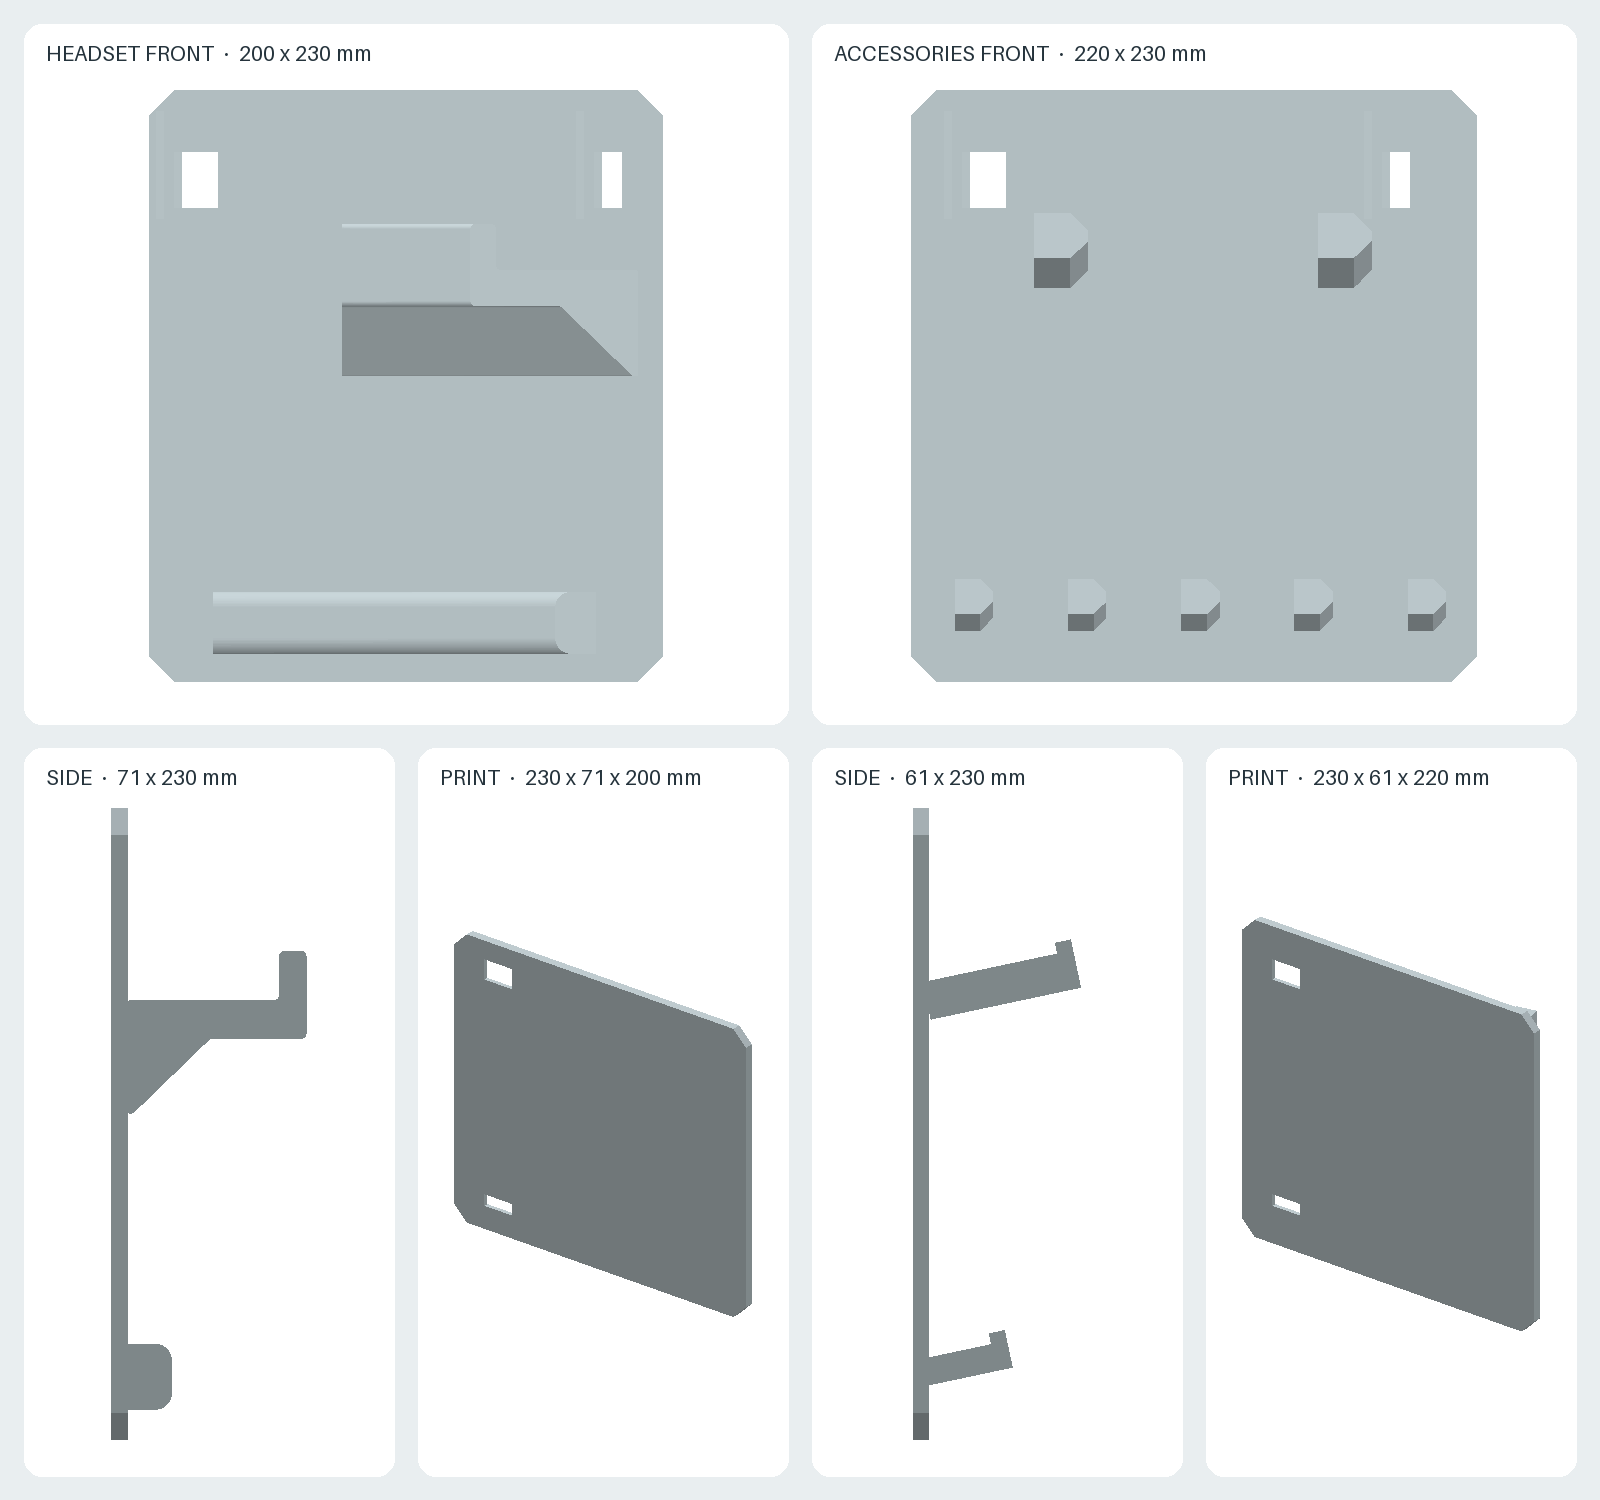
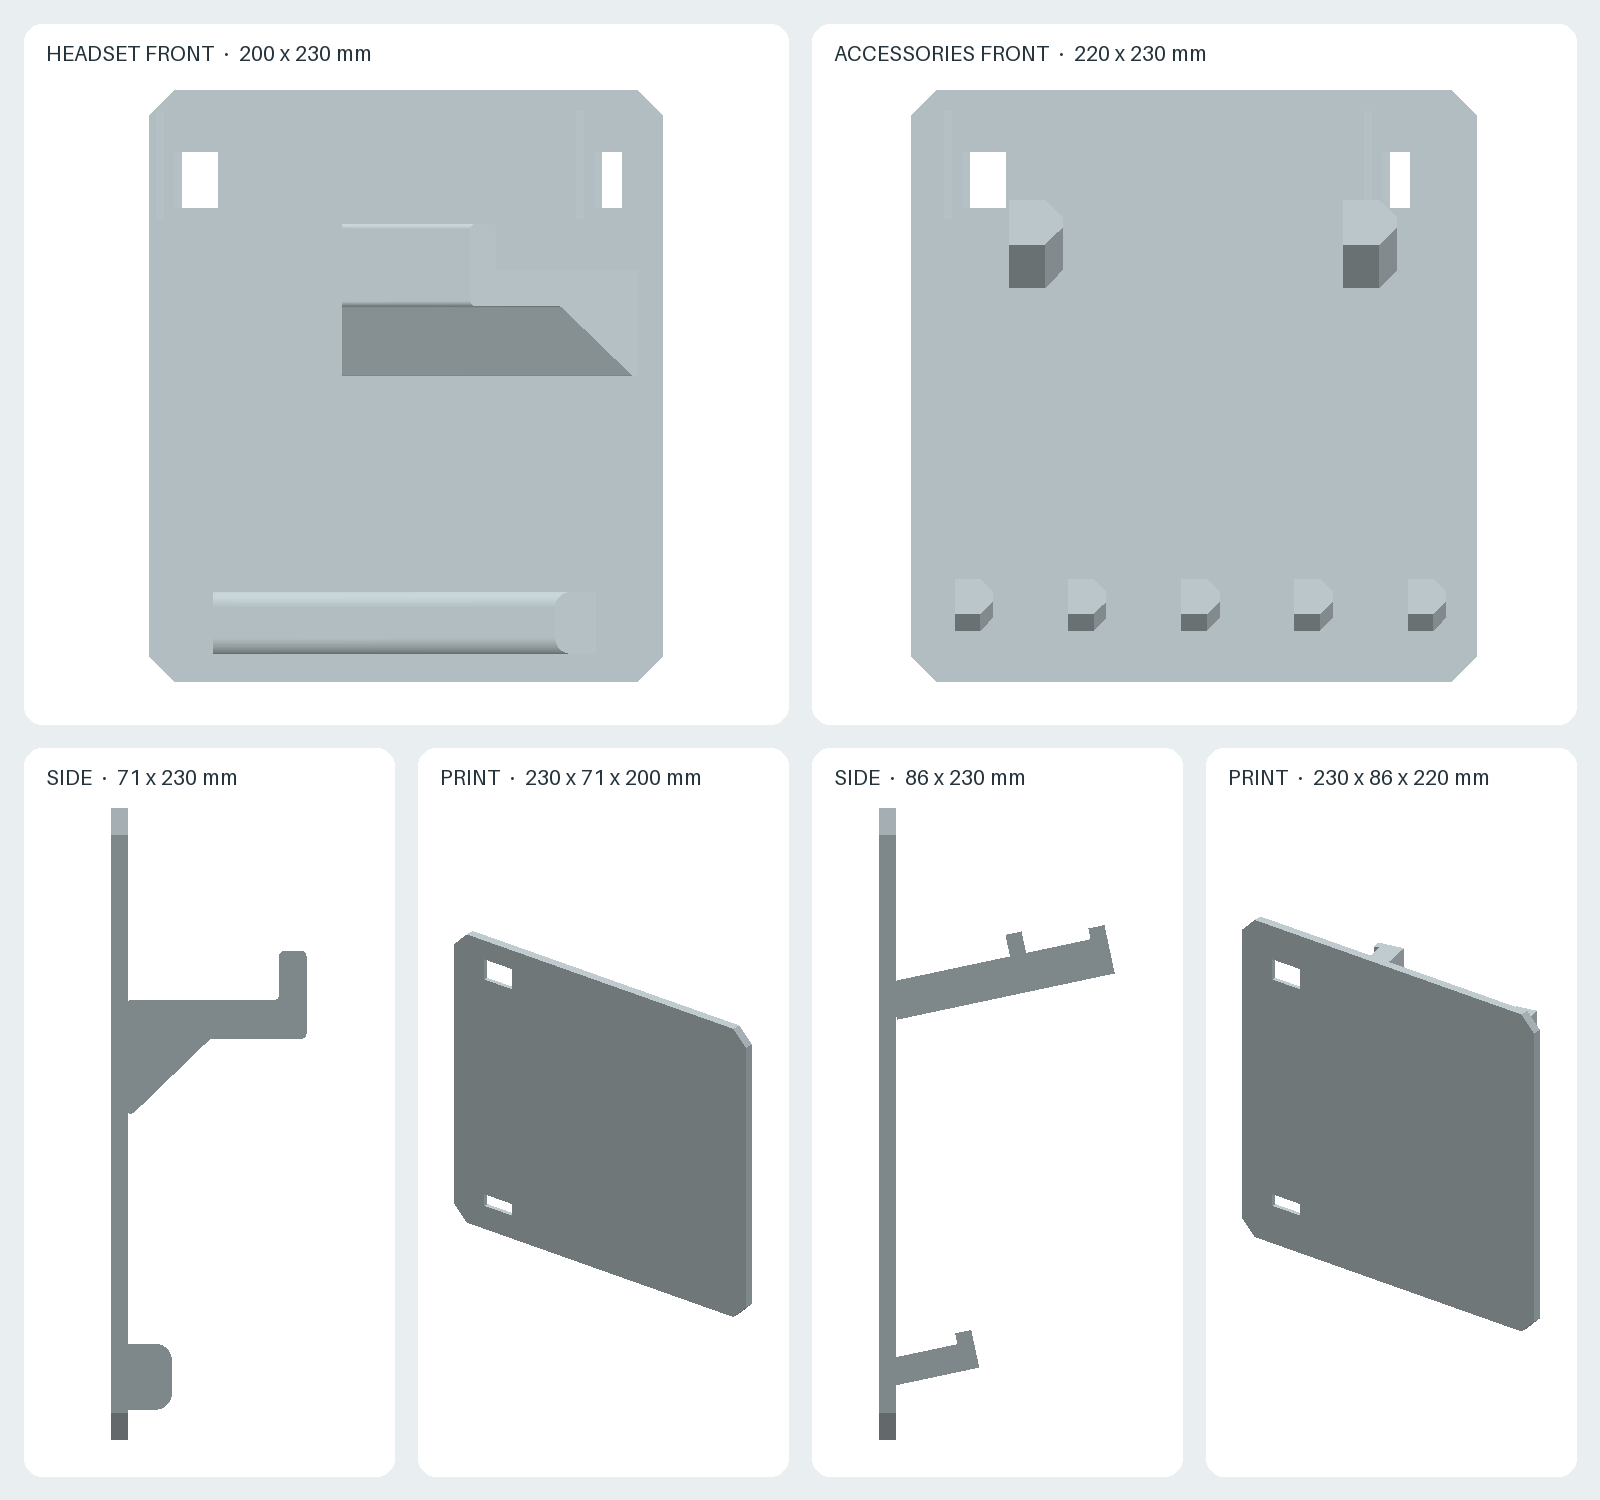
fix: hang the PICO 4 controllers in front of the tracker row
The official product images show a controller ring that loops around the
hand with the grip as one side, about 100 mm across, so the previous
110 mm peg spacing let the two controllers touch. Space the controller
pegs 130 mm apart, lengthen them to 80 mm and add a stop on top 50 mm
from the panel, so the rings hang in front of the tracker straps. The
stop slopes at 45 degrees and needs no support.

Redraw the stand-ins in usage.png to follow the official images: a
rigid head ring with the battery pack, tilted so that the visor rests on
the rib, and controller rings that loop around the grip.

Claude-Session: https://claude.ai/code/session_014bzWX8HSrz2GmeWRCbtGuF

diff --git a/pico-4-wall-hanger/render.py b/pico-4-wall-hanger/render.py
@@ -32,14 +32,16 @@ HOOK_SHANK = 10.0
 HOOK_TIP = 12.0
 # Must match generate.py: arm top, controller and tracker pegs.
 ARM_TOP = -70.0
-CONTROLLER_PEG_X = (-55.0, 55.0)
+CONTROLLER_PEG_X = (-65.0, 65.0)
 CONTROLLER_PEG_TOP = -63.0
+CONTROLLER_STOP_AT = 50.0
 TRACKER_PEG_X = (-88.0, -44.0, 0.0, 44.0, 88.0)
 TRACKER_PEG_TOP = -200.0
 PEG_SLOPE = np.tan(np.radians(12.0))
 PANEL_THICKNESS = 6.0
 DEVICE_COLOR = (64, 69, 76)
-VISOR_COLOR = (238, 240, 242)
+WHITE_COLOR = (240, 241, 243)
+LENS_COLOR = (40, 44, 50)
 STRAP_COLOR = (96, 102, 110)
 WALL_THICKNESS = 12.0
 WALL_MARGIN = 60.0
@@ -167,39 +169,100 @@ def strap(start, end, width, thickness, across, color):
                         (along, across * width / 2, through * thickness / 2), color)
 
 
-def headset_stand_in(x_offset):
-    """Battery pack on the arm, side straps and the visor leaning on the rib.
+def rotate_about(mesh, pivot, axis, angle):
+    """Rotate a (triangles, normals, color) mesh about an axis through pivot."""
+    axis = np.asarray(axis, dtype=np.float64) / np.linalg.norm(axis)
+    k = np.array([[0, -axis[2], axis[1]], [axis[2], 0, -axis[0]], [-axis[1], axis[0], 0]])
+    rotation = np.eye(3) + np.sin(angle) * k + (1 - np.cos(angle)) * k @ k
+    pivot = np.asarray(pivot, dtype=np.float64)
+    triangles, normals, color = mesh
+    return (triangles - pivot) @ rotation.T + pivot, normals @ rotation.T, color
 
-    The visor is 195 mm wide (PICO 4 Enterprise specification); the strap
-    run from the battery pack to the visor is assumed to be 150 mm.
-    """
-    x = x_offset
-    battery = ellipsoid((x, 38.0, ARM_TOP + 18.0), (45.0, 20.0, 18.0), DEVICE_COLOR)
-    visor = oriented_box((x, 71.0, -250.0),
-                         ((97.5, 0, 0), (0, 49.0, 0), (0, 0, 50.0)), VISOR_COLOR)
-    meshes = [battery, visor]
-    for side in (-1.0, 1.0):
-        meshes.append(strap((x + side * 40.0, 38.0, ARM_TOP + 14.0),
-                            (x + side * 88.0, 60.0, -200.0),
-                            30.0, 4.0, (0, 1, 0), STRAP_COLOR))
+
+def elliptic_band(center, a, b, width, thickness, color, segments=40):
+    """Flat band along an ellipse in the x-z plane; width runs along y."""
+    center = np.asarray(center, dtype=np.float64)
+    meshes = []
+    for i in range(segments):
+        u0, u1 = 2 * np.pi * i / segments, 2 * np.pi * (i + 1) / segments
+        p0 = center + np.array([a * np.cos(u0), 0, b * np.sin(u0)])
+        p1 = center + np.array([a * np.cos(u1), 0, b * np.sin(u1)])
+        meshes.append(strap(p0, p1, width, thickness, (0, 1, 0), color))
     return meshes
 
 
+def elliptic_tube(center, a, b, radius, color):
+    """Round tube along an ellipse in the x-z plane."""
+    center = np.asarray(center, dtype=np.float64)
+    y_axis = np.array([0.0, 1.0, 0.0])
+
+    def outward(u):
+        n = np.array([b * np.cos(u), 0.0, a * np.sin(u)])
+        return n / np.linalg.norm(n)
+
+    def point(u, v):
+        curve = center + np.array([a * np.cos(u), 0.0, b * np.sin(u)])
+        return curve + radius * (np.cos(v) * outward(u) + np.sin(v) * y_axis)
+
+    def normal(u, v):
+        return np.cos(v) * outward(u) + np.sin(v) * y_axis
+
+    return parametric_mesh(point, normal, (0, 2 * np.pi), (0, 2 * np.pi), color, 48, 12)
+
+
+def headset_stand_in(x_offset):
+    """Rigid head ring hanging from the arm, battery pack on top, visor below.
+
+    PICO 4 has a rigid rear band with the battery pack at the back and a
+    visor 195 mm wide and 106 mm high (PICO 4 Enterprise specification,
+    255-310 mm long with the strap). Hanging on the arm, the head ring lies
+    roughly parallel to the wall with the visor at the bottom; it is tilted
+    here so that the visor rests against the rib. The top strap is omitted.
+    """
+    x = x_offset
+    contact = np.array([x, 38.0, ARM_TOP])
+    ring_top = ARM_TOP + 6.0
+    ring_bottom = -205.0
+    ring_center = (x, 38.0, (ring_top + ring_bottom) / 2)
+    meshes = elliptic_band(ring_center, 82.0, (ring_top - ring_bottom) / 2,
+                           32.0, 10.0, WHITE_COLOR)
+    meshes.append(ellipsoid((x, 38.0, ring_top + 20.0), (48.0, 20.0, 16.0), WHITE_COLOR))
+    meshes.append(oriented_box((x, 38.0, -250.0),
+                               ((97.5, 0, 0), (0, 53.0, 0), (0, 0, 42.0)), WHITE_COLOR))
+    meshes.append(oriented_box((x, 38.0, -293.0),
+                               ((88.0, 0, 0), (0, 44.0, 0), (0, 0, 1.5)), LENS_COLOR))
+    # About 15 degrees brings the wall side of the visor to the front of the rib.
+    tilt = np.radians(15.0)
+    return [rotate_about(mesh, contact, (1, 0, 0), tilt) for mesh in meshes]
+
+
 def controller_stand_ins(x_offset):
-    """Tracking ring hanging on each peg, grip below; 134.7 mm tall in total."""
+    """Tracking ring as a loop around the grip, hung from its upper inside.
+
+    From the official images, the ring of a PICO 4 controller runs from the
+    top of the grip around the hand and back to its lower end, so the grip is
+    one side of the loop. The loop size (about 96 x 122 mm outside) is an
+    estimate; the overall height of about 134.7 mm is published. The
+    controller is turned so that the grip, which carries most of the weight,
+    hangs below the peg.
+    """
     meshes = []
-    ring_y = 30.0
+    ring_y = PANEL_THICKNESS + CONTROLLER_STOP_AT + 7.0
     peg_top = CONTROLLER_PEG_TOP + (ring_y - PANEL_THICKNESS) * PEG_SLOPE
-    major, minor = 32.0, 4.5
+    a, b, tube = 42.0, 55.0, 6.0
     for x_peg in CONTROLLER_PEG_X:
+        side = -np.sign(x_peg)  # grip on the side toward the module centre
         x = x_offset + x_peg
-        ring_z = peg_top - (major - minor)
-        meshes.append(torus((x, ring_y, ring_z), major, minor, DEVICE_COLOR))
-        top = ring_z + major + minor
-        grip_semi = (134.7 - (top - (ring_z - major))) / 2 + 10.0
-        grip_z = top - 134.7 + grip_semi
-        meshes.append(ellipsoid((x, ring_y + 4.0, grip_z), (20.0, 22.0, grip_semi),
-                                DEVICE_COLOR))
+        center = np.array([x, ring_y, peg_top - (b - tube)])
+        ring = elliptic_tube(center, a, b, tube, WHITE_COLOR)
+        grip_center = center + np.array([side * (a - 6.0), 4.0, -8.0])
+        grip = ellipsoid(grip_center, (17.0, 20.0, 52.0), WHITE_COLOR)
+        weighted = 0.7 * grip_center + 0.3 * center
+        contact = np.array([x, ring_y, peg_top])
+        offset = weighted - contact
+        angle = np.arctan2(offset[0], -offset[2])
+        for mesh in (ring, grip):
+            meshes.append(rotate_about(mesh, contact, (0, 1, 0), angle))
     return meshes
 
 

diff --git a/pico-4-wall-hanger/generate.py b/pico-4-wall-hanger/generate.py
@@ -10,8 +10,10 @@ in the recess.
 - headset: an arm with a raised tip that passes through the strap ring and
   carries the rear battery pack, and a rib lower on the panel that the
   hanging visor leans on, so the headset does not swing;
-- accessories: two pegs for the controller tracking rings and five short
-  pegs for the Motion Tracker straps.
+- accessories: two long pegs for the controller tracking rings and five
+  short pegs for the Motion Tracker straps. A stop on each controller peg
+  holds the ring out in front of the tracker row, so that the controllers
+  hang in front of the trackers instead of on them.
 
 Use-orientation axes: x along the wall, y from the wall toward the user
 (y=0 is the back face of the panel, flat against the wall), z up (z=0 is the
@@ -62,10 +64,15 @@ BUMPER_DEPTH = 16.0      # from the panel front face
 
 # Accessories module.
 ACCESSORY_WIDTH = 220.0
-CONTROLLER_PEG_X = (-55.0, 55.0)
+# The tracking ring is a loop of roughly 100 mm across, so the pegs are far
+# enough apart for two hanging controllers.
+CONTROLLER_PEG_X = (-65.0, 65.0)
 CONTROLLER_PEG_Z = -70.0     # below the hook-slot recesses
 CONTROLLER_PEG_RADIUS = 7.0
-CONTROLLER_PEG_LENGTH = 55.0
+CONTROLLER_PEG_LENGTH = 80.0
+CONTROLLER_STOP_AT = 50.0    # from the panel front face; the ring rests in front
+CONTROLLER_STOP_HEIGHT = 8.0
+CONTROLLER_STOP_LENGTH = 6.0
 TRACKER_PEG_X = (-88.0, -44.0, 0.0, 44.0, 88.0)
 TRACKER_PEG_Z = -205.0
 TRACKER_PEG_RADIUS = 5.0
@@ -174,11 +181,13 @@ def visor_bumper():
     return print_taper(bumper, -BUMPER_WIDTH / 2, BUMPER_WIDTH / 2)
 
 
-def peg(x, z, radius, length):
+def peg(x, z, radius, length, stop_at=None):
     """Upward-tilted peg with a small stop at the tip.
 
     The cross-section in the x-z plane is a square with a 45-degree point
-    toward -x, which is downward in print orientation.
+    toward -x, which is downward in print orientation. An optional second
+    stop on the upper side at stop_at keeps a hanging ring from sliding back
+    toward the panel; its -x side slopes at 45 degrees so it needs no support.
     """
     r, h = radius, PEG_TAB_HEIGHT
     section = [(r, -r), (r, r), (-r, r), (-2 * r, 0.0), (-r, -r)]
@@ -192,7 +201,14 @@ def peg(x, z, radius, length):
 
     shaft = prism(section, -EMBED, length + EMBED)
     tab = prism(tab_section, length - PEG_TAB_LENGTH, PEG_TAB_LENGTH)
-    body = shaft.fuse(tab).clean()
+    body = shaft.fuse(tab)
+    if stop_at is not None:
+        hs = CONTROLLER_STOP_HEIGHT
+        stop_section = [(r, r - 1.0), (r, r + hs), (-r + hs, r + hs),
+                        (-r, r), (-r, r - 1.0)]
+        body = body.fuse(prism(stop_section, stop_at - CONTROLLER_STOP_LENGTH,
+                               CONTROLLER_STOP_LENGTH))
+    body = body.clean()
     body = body.rotate(cq.Vector(0, 0, 0), cq.Vector(1, 0, 0),
                        math.degrees(PEG_TILT))
     return body.translate(cq.Vector(x, PANEL_THICKNESS, z))
@@ -207,7 +223,7 @@ def make_accessory_module():
     body = panel(ACCESSORY_WIDTH)
     for x in CONTROLLER_PEG_X:
         body = body.fuse(peg(x, CONTROLLER_PEG_Z, CONTROLLER_PEG_RADIUS,
-                             CONTROLLER_PEG_LENGTH))
+                             CONTROLLER_PEG_LENGTH, stop_at=CONTROLLER_STOP_AT))
     for x in TRACKER_PEG_X:
         body = body.fuse(peg(x, TRACKER_PEG_Z, TRACKER_PEG_RADIUS,
                              TRACKER_PEG_LENGTH))

diff --git a/pico-4-wall-hanger/README.md b/pico-4-wall-hanger/README.md
@@ -3,11 +3,11 @@
 Two independent panels that hang on L- or J-shaped wall hooks, two hooks per panel. Every item is removed by lifting it off, and each panel is removed by lifting it off its hooks.
 
 - [`headset.stl`](headset.stl): headset module, 200 × 71 × 230 mm (width × depth × height). The arm passes through the strap ring and carries the rear battery pack; its raised tip keeps the strap from sliding off. The headset hangs below the arm and the visor leans on the rib near the bottom of the panel, which stops it from swinging.
-- [`accessories.stl`](accessories.stl): accessory module, 220 × 61 × 230 mm. Two pegs hold the controllers by their tracking rings. Five shorter pegs below them hold PICO Motion Trackers by their straps. All pegs rise 12° toward the tip and end in a small stop.
+- [`accessories.stl`](accessories.stl): accessory module, 220 × 86 × 230 mm. Two long pegs hold the controllers by their tracking rings. A stop on top of each controller peg keeps the ring 50 mm or more in front of the panel, so the controllers hang in front of the tracker row. Five shorter pegs near the bottom hold PICO Motion Trackers by their straps; to take a tracker, reach behind the controllers or lift the controllers off first. All pegs rise 12° toward the tip and end in a small stop.
 - [`generate.py`](generate.py): parametric CadQuery source, dimensions in mm.
 - [`views.png`](views.png): front and side views in use, and each part in print orientation.
 - [`preview.png`](preview.png): both modules on a wall, with schematic hooks.
-- [`usage.png`](usage.png): both modules with simplified stand-ins for the headset, the controllers and five trackers, in an oblique view and side views. The stand-ins are boxes, ellipsoids and tori sized from the sources and assumptions below; they show the intended placement, not the product shapes.
+- [`usage.png`](usage.png): both modules with simplified stand-ins for the headset, the controllers and five trackers, in an oblique view and side views. The stand-ins are bands, boxes, ellipsoids and tubes. Their overall layout follows the official product images (a rigid head ring with the battery pack at the rear; a controller ring that loops around the hand with the grip as one side), and their sizes follow the sources and assumptions below. They show the intended placement, not the product shapes.
 - [`render.py`](render.py): deterministic offline rendering script.
 
 ![Both modules hanging on wall hooks](preview.png)
@@ -44,7 +44,7 @@ The following are design choices, not published PICO dimensions, and have not be
 
 - The arm top is 70 mm below the panel top edge, which leaves room above the arm for the battery pack. The arm reaches 65 mm from the panel; its full length is 50 mm wide.
 - The rib is 16 mm deep and lies 195–219 mm below the panel top edge. Whether the visor leans on it depends on the strap length setting and on how far out the battery pack sits on the arm.
-- Controller pegs: 14 mm wide, 55 mm long, 110 mm apart, 70 mm below the panel top edge. This assumes that the opening of the tracking ring is larger than the peg and that the two controllers, hanging side by side, do not touch.
+- Controller pegs: 14 mm wide, 80 mm long, 130 mm apart, 70 mm below the panel top edge, with an 8 mm stop 50 mm from the panel front. The official images show a tracking ring that loops around the hand, so the peg passes through the loop and the controller hangs from the upper inside of the ring. The loop size, about 96 × 122 mm outside, is estimated from the images; with 130 mm spacing the two controllers are expected to hang about 30 mm apart. The ring is assumed to be thinner than the 24 mm between the two stops.
 - Tracker pegs: 10 mm wide, 30 mm long, 44 mm apart. This assumes each tracker is narrower than 44 mm and is stored with its strap attached; a tracker without a strap cannot be hung.
 
 Print one module first and check the fit on the hooks, the strap ring on the arm, the controller rings and the tracker straps before printing the other.
